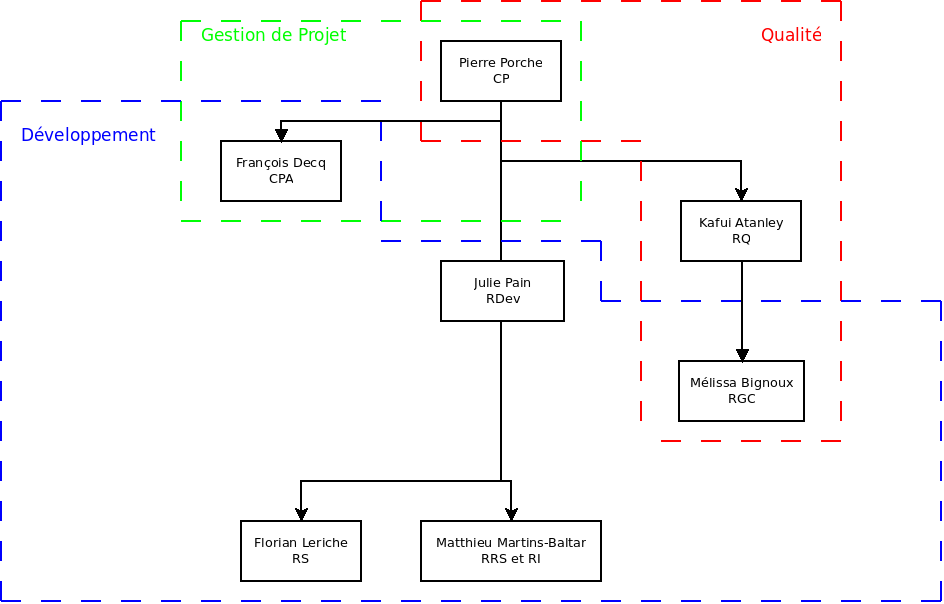
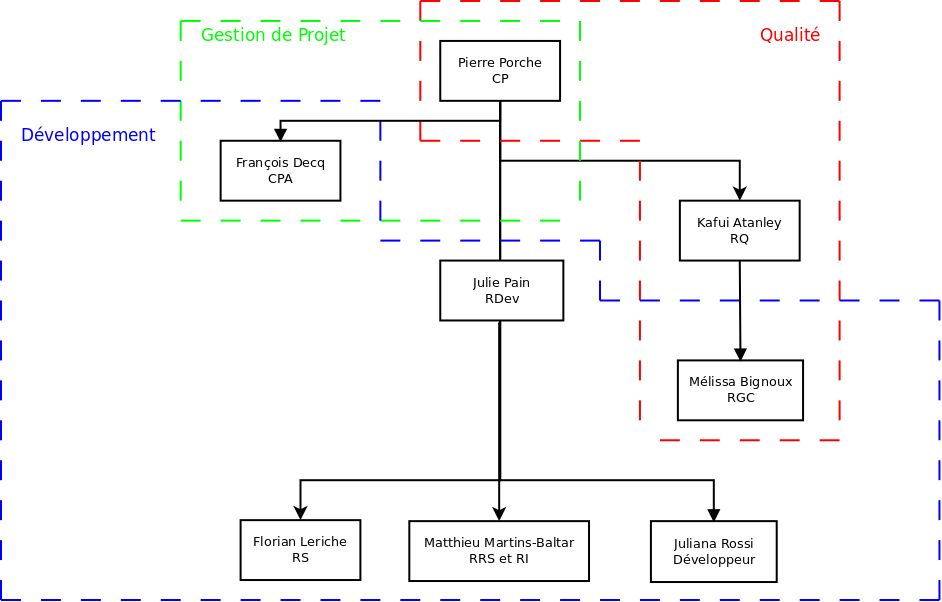
Modification PQ, Ajout FC FD JR, Ajout doc apt-get

diff --git a/qualite/DSQ/FC/enregistrements/FC_Q_Unipik_pJR_v1.00.tex b/qualite/DSQ/FC/enregistrements/FC_Q_Unipik_pJR_v1.00.tex
@@ -1,0 +1,107 @@
+% version 1.00	Auteur Kafui Atanley
+
+\documentclass[11pt]{article}
+\usepackage{draftcopy}
+\usepackage[francais]{babel}
+\usepackage[utf8]{inputenc}
+\usepackage{tabularx}
+\usepackage{graphicx}
+\usepackage[table]{xcolor}
+\usepackage{fancyhdr}
+\usepackage[margin=0.5in]{geometry}
+\usepackage{vocabulaireUnipik}
+\usepackage{longtable}
+
+
+\begin{document}
+\chead{\huge ~\\ Fiche de compétence}
+
+\begin{center}
+\begin{table}[!hp]
+
+	\begin{tabularx}{\linewidth}{|X|X|}
+	\hline
+	\rowcolor{gray!40} Élève ingénieur & Date et signature \\
+	\hline
+	\end{tabularx}
+	\begin{tabularx}{\linewidth}{|X|X|}
+	Nom : Rossi &  \\ 
+	Prénom : Juliana & \\
+	Semestre : Semestre 10 & \\
+	\hline
+	\end{tabularx}
+\end{table}
+\end{center}
+
+\section*{\large\FR}
+
+%\begin{table}[!hp]
+\centering
+	\begin{longtable}{|p{0.5\textwidth}|p{0.5\textwidth}|}
+	\hline
+	\rowcolor{gray!40} Référence \WBSCourt & Description du rôle \\
+	\hline
+	 1.2 & Conduire le Projet \\
+	 \hline
+	\end{longtable}
+%\end{table}
+
+
+\section*{\large\FC}
+
+
+\begin{table}[!hp]
+\centering
+	\begin{tabularx}{\linewidth}{|X|X|}
+	\hline
+	\rowcolor{gray!40} Niveau inscrit & Notes correspondantes \\
+	\hline
+	 Faible & 10 et moins \\
+	 \hline
+	 Moyen & 10 - 13 \\
+	 \hline
+	 Bon & 13 - 16 \\
+	 \hline
+	 Très bon & 16 - 20 \\
+	 \hline
+	\end{tabularx}
+\end{table}
+
+%\begin{table}[!hp]
+\centering
+	\begin{longtable}{|p{0.23\textwidth}|p{0.23\textwidth}|p{0.23\textwidth}|p{0.23\textwidth}|}
+	\hline
+	\rowcolor{gray!40} Référence & Compétence & Justificatif & Niveau \\
+	\hline
+	  & Programmation Orientée Objet &  &  \\
+	 \hline
+	\end{longtable}
+%\end{table}
+
+%\begin{table}[!hp]
+\centering
+	\begin{longtable}{|p{1\textwidth}|}
+	\hline
+	\rowcolor{gray!40} Compétences à acquérir par formation complémentaire \\
+	\hline
+	 PHP \\
+	\hline
+	\end{longtable}
+%\end{table}
+
+\section*{\large Suivi de formation}
+
+\centering
+
+	%\begin{longtable}{|p{1.9cm}|p{1.9cm}|p{1.9cm}|p{1.9cm}|p{1cm}|p{0.8cm}|p{1.5cm}|p{1.2cm}|}
+	\begin{longtable}{|p{0.11\textwidth}|p{0.11\textwidth}|p{0.12\textwidth}|p{0.09\textwidth}|p{0.11\textwidth}|p{0.06\textwidth}|p{0.12\textwidth}|p{0.12\textwidth}|}
+	
+	\hline
+	\rowcolor{gray!40} \tiny Date début & \tiny Date fin & \tiny Intitulé Formation & \tiny Nature Formation & \tiny Evaluateur & \tiny Avis & \tiny Signature & \tiny Évaluation à froid \\
+	\hline
+	13/09/2016 & Non défini & PHP & Non Défini & Non Défini & & & \\
+	\hline
+	\end{longtable}
+%\end{table}
+
+\end{document}

diff --git a/qualite/DSQ/FC/enregistrements/FC_Q_Unipik_pFD_v1.00.tex b/qualite/DSQ/FC/enregistrements/FC_Q_Unipik_pFD_v1.00.tex
@@ -1,0 +1,111 @@
+% version 1.02	Auteur Florian Leriche
+
+\documentclass[11pt]{article}
+\usepackage{draftcopy}
+\usepackage[francais]{babel}
+\usepackage[utf8]{inputenc}
+\usepackage{tabularx}
+\usepackage{graphicx}
+\usepackage[table]{xcolor}
+\usepackage{fancyhdr}
+\usepackage[margin=0.5in]{geometry}
+\usepackage{vocabulaireUnipik}
+\usepackage{longtable}
+
+
+\begin{document}
+
+\chead{\huge Fiche de compétence}
+
+\begin{center}
+\begin{table}[!hp]
+
+	\begin{tabularx}{\linewidth}{|X|X|}
+	\hline
+	\rowcolor{gray!40} Élève ingénieur & Date et signature \\
+	\hline
+	\end{tabularx}
+	\begin{tabularx}{\linewidth}{|X|X|}
+	Nom : Decq &  \\ 
+	Prénom : François & \\
+	Semestre : 9 & \\
+	\hline
+	\end{tabularx}
+\end{table}
+\end{center}
+
+\section*{\large\FR}
+
+\begin{table}[!hp]
+\centering
+	\begin{tabularx}{\linewidth}{|X|X|}
+	\hline
+	\rowcolor{gray!40} Référence \WBSCourt & Description du rôle \\
+	\hline
+	 1.3 & Réaliser les produits \\
+	 \hline
+	\end{tabularx}
+\end{table}
+
+
+\section*{\large\FC}
+
+
+\begin{table}[!hp]
+\centering
+	\begin{tabularx}{\linewidth}{|X|X|}
+	\hline
+	\rowcolor{gray!40} Niveau inscrit & Notes correspondantes \\
+	\hline
+	 Faible & 10 et moins \\
+	 \hline
+	 Moyen & 10 - 13 \\
+	 \hline
+	 Bon & 13 - 16 \\
+	 \hline
+	 Très bon & 16 - 20 \\
+	 \hline
+	\end{tabularx}
+\end{table}
+
+
+\begin{table}[!hp]
+\centering
+	\begin{tabularx}{\linewidth}{|X|X|X|X|}
+	\hline
+	\rowcolor{gray!40} Référence & Compétence & Justificatif & Niveau \\
+	\hline
+	 ProgAv & Programmation avancée JAVA & Examen &  \\
+	\hline
+	 BD & Base de données & Examen et projet &  \\
+	 \hline
+	 TW & Technologies Web & Examen &  \\
+	 \hline
+	\end{tabularx}
+\end{table}
+
+\begin{table}[!hp]
+\centering
+	\begin{tabularx}{\linewidth}{|X|}
+	\hline
+	\rowcolor{gray!40} Compétences à acquérir par formation complémentaire \\
+	\hline
+	Symfony3 Framework.  \\
+	\hline
+	\end{tabularx}
+\end{table}
+
+\section*{\large Suivi de formation}
+
+%\begin{table}[!hp]
+\centering
+	\begin{longtable}{|p{0.11\textwidth}|p{0.11\textwidth}|p{0.12\textwidth}|p{0.09\textwidth}|p{0.11\textwidth}|p{0.06\textwidth}|p{0.12\textwidth}|p{0.12\textwidth}|}
+	\hline
+	\rowcolor{gray!40} \tiny Date début & \tiny Date fin & \tiny Intitulé Formation & \tiny Nature Formation & \tiny Evaluateur & \tiny Avis & \tiny Signature & \tiny Évaluation à froid \\
+	\hline
+	05/09/2016 & Non défini & Symfony & auto formation & Non défini & & &  \\
+	\hline
+	\end{longtable}
+%\end{table}
+
+\end{document}

diff --git a/qualite/PQ/sources/02_engagements.tex b/qualite/PQ/sources/02_engagements.tex
@@ -7,13 +7,14 @@ Tous les signataires ont pris connaissance du présent Plan Qualité et s'engage
 	\hline
 	
 	\cellcolor{gray!40}Membre équipe PIC & \cellcolor{gray!40}Rôle(s) dans le projet & \cellcolor{gray!40}Date & \cellcolor{gray!40}Signature \\\hline
-	\Pierre 		& \CP 				& & \\\hline
+	\Pierre 	& \CP 			& & \\\hline
 	\Francois 	& \CPA \newline \D 	& & \\\hline 
-	\Kafui  		& \RQ 				& & \\\hline
+	\Kafui  	& \RQ 			& & \\\hline
 	\Matthieu 	& \D \newline \RRS 	& & \\\hline
 	\Florian 	& \D \newline \RS 	& & \\\hline
 	\Melissa  	& \D \newline \RGC 	& & \\\hline
 	\Julie 		& \D \newline \RD 	& & \\\hline
+	\Juliana 	& \D 			& & \\\hline
 \end{tabular}
 
 

diff --git a/qualite/PQ/sources/00_pageService.tex b/qualite/PQ/sources/00_pageService.tex
@@ -3,6 +3,7 @@
 \begin{pagesService}
 	\begin{historique}
 		% nouvelles versions à rajouter AU-DESSUS en recopiant les lignes suivantes et en les modifiant :
+		\unHistorique{2.02}{06/09/2016}{\Kafui}{Modifications relatives à l'ajout d'un nouveau membre dans l'équipe}{Chapitres 1, 2, 9}
 		\unHistorique{2.02}{06/09/2016}{\Kafui}{Modifications relatives à l'utilision de Redmine}{Chapitres 4, 6}
 		\unHistorique{2.01}{06/09/2016}{\Pierre}{Modifications relatives au changement d'équipe}{Chapitres 1, 2, 3, 9}
 		\unHistorique{2.00}{29/03/2016}{\Pierre}{Modifications (FFT n°004, FOC n°004)}{Chapitres 4, 5, 6, annexe B}

diff --git a/qualite/PQ/PQ_Q_Unipik_v2.03.tex b/qualite/PQ/PQ_Q_Unipik_v2.03.tex
@@ -1,4 +1,4 @@
-% version 2.01	Auteur Julie Pain, Pierre Porche
+% version 2.03	Auteur Julie Pain, Pierre Porche
 
 \documentclass[asi]{picInsa}
 \DeclareGraphicsRule{*}{pdf}{*}{}
@@ -40,7 +40,7 @@
 \titreGeneral{\PQ}
 \sousTitreGeneral{\nomEquipe}
 \titreAcronyme{\PQCourt}
-\version{v2.01}
+\version{v2.03}
 \titreDetaille{\PQCourt\_Q\_\nomEquipe\_\versionPrive}
 \referenceVersion{\PQCourt\_Q\_\nomEquipe\_\versionPrive}
 \auteurs{\Kafui{} \& \Melissa{} \& \Sergi{} \& \Michel{} \& \Florian{} \&  \Julie{} \& \Pierre{}}

diff --git a/qualite/PQ/sources/01_ficheProjet.tex b/qualite/PQ/sources/01_ficheProjet.tex
@@ -75,6 +75,7 @@ PIC~:] 9 \\
 	\Florian & \D , \RS \\\hline
 	\Melissa  & \D , \RGC \\\hline
 	\Julie & \D , \RD \\\hline
+	\Juliana & \D \\\hline
 \end{tabular}
 	
 	\vspace{1cm}
